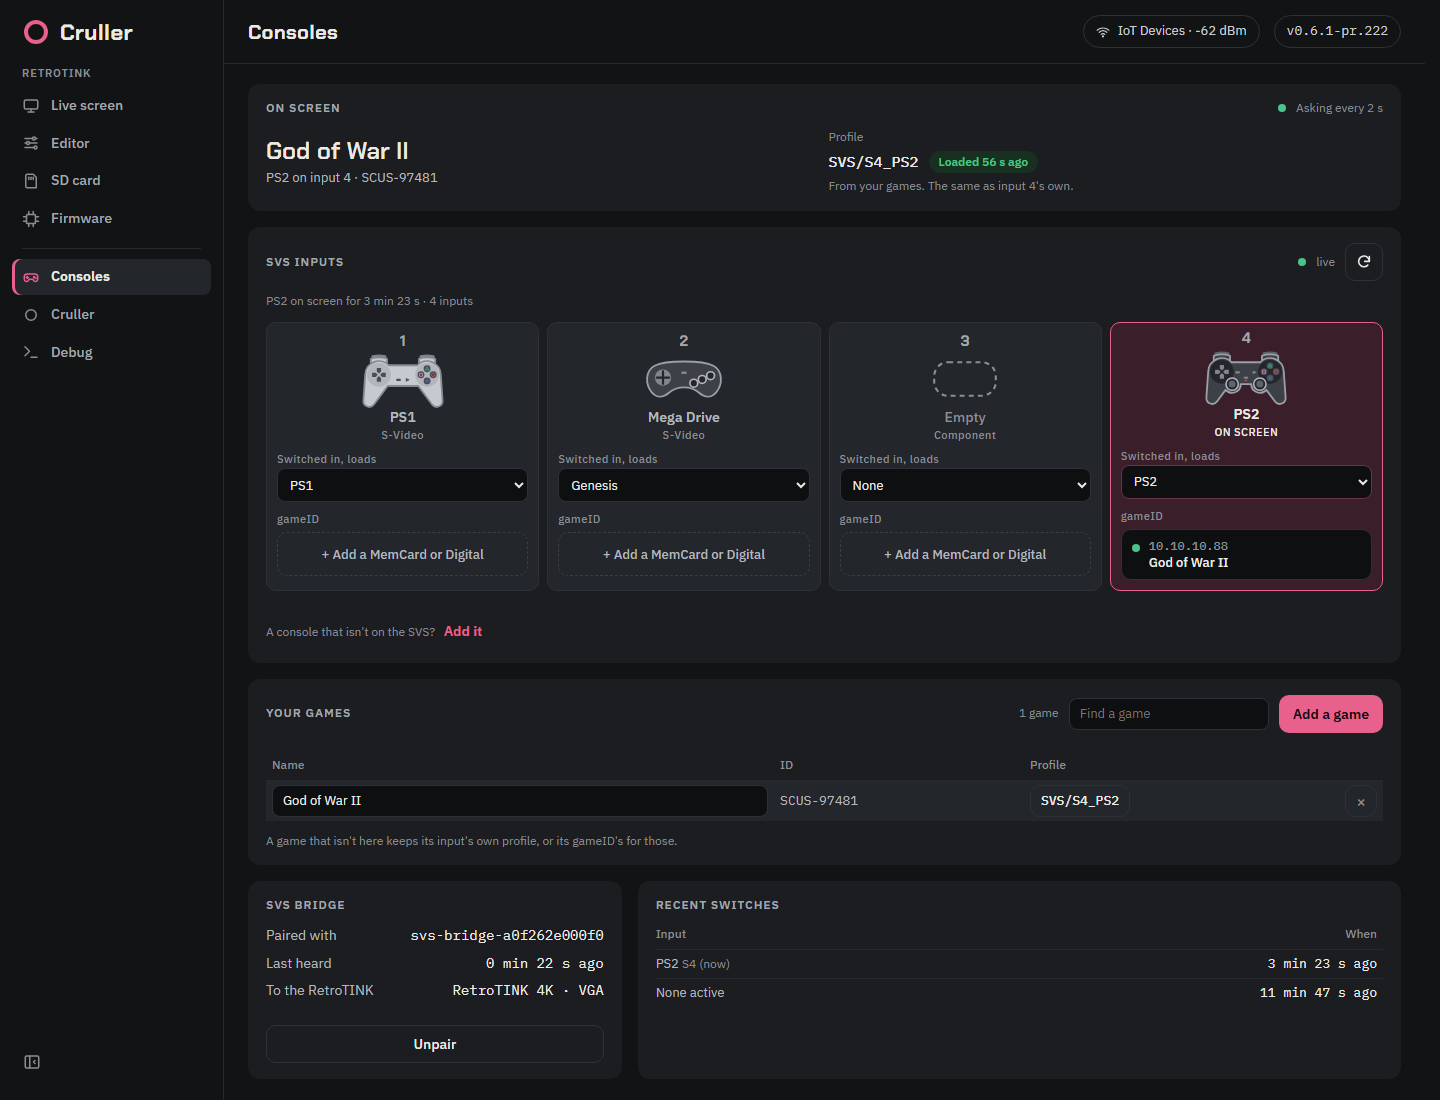
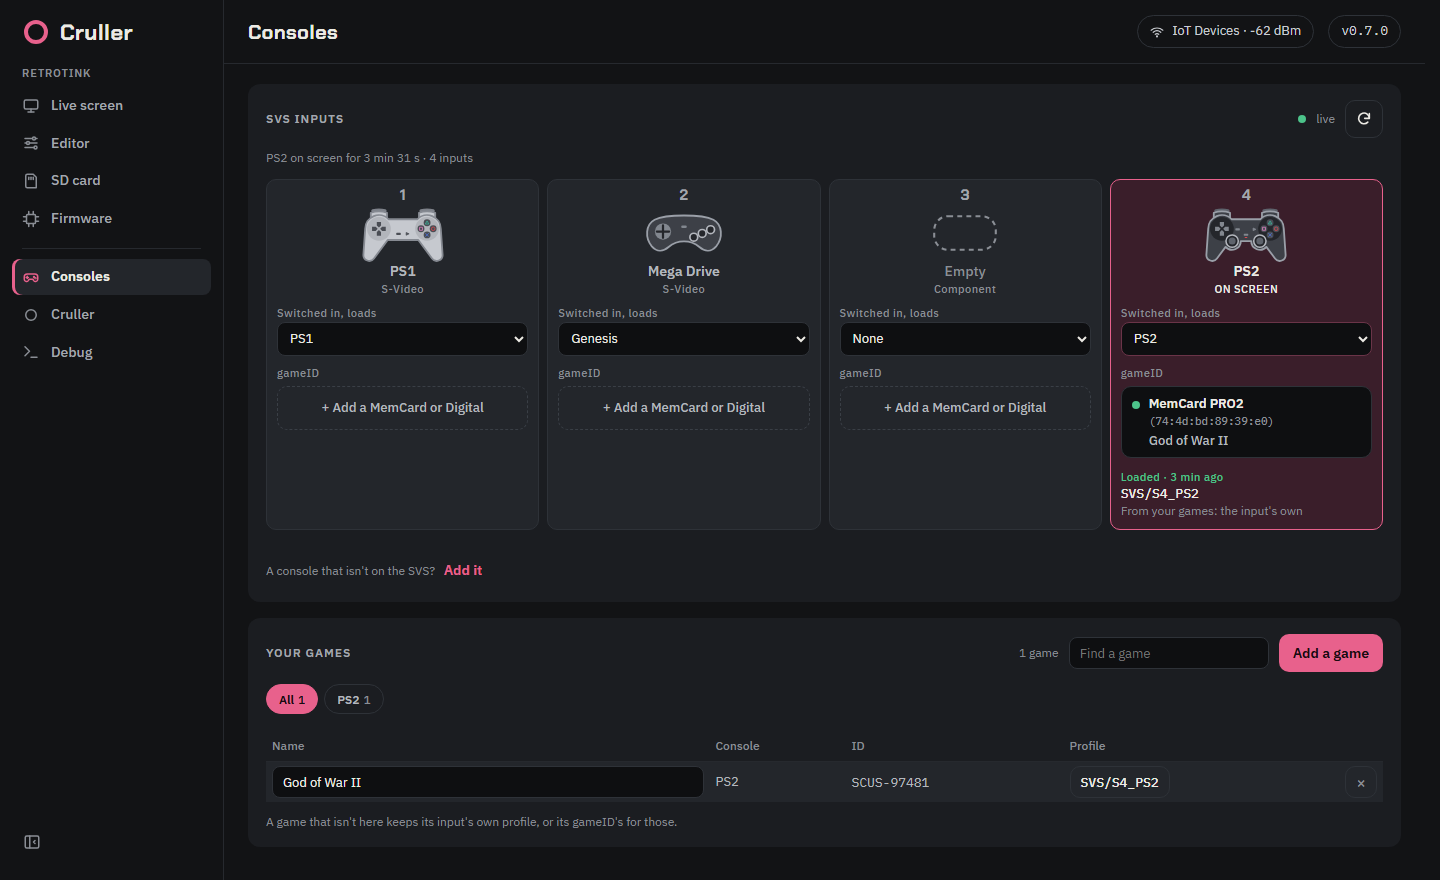
README: up to 0.7.0 (#67)
* README: up to 0.7.0

gameID shipped (the note no longer says it's next): the Consoles view's
devices by name with their MAC, consoles not on the SVS, your games and what
adding one suggests; a gameID note in the technical ones. The profile editor
among the features; the gameID devices in the diagram and in what you need;
/api/v1/gameid; the factory reset wiping gameID's files; the Debug view with
the SVS Bridge, the recent switches and, in pre-releases, the developer tools;
the page embedded gzipped and minified in CI; the tests, the source layout and
the docs as they are now.

* README: the Consoles view's screenshot as it is now

The SVS's inputs with each one's gameID device by name and MAC, the PS2's on
screen with God of War II's profile loaded, your games with their console and
its tag. (The old one had the On screen panel, the device's IP, and the SVS
Bridge and recent switches, now in Debug.)

---------

diff --git a/README.md b/README.md
@@ -20,7 +20,7 @@ web page over Wi-Fi, so the scaler can live behind the TV and still be managed f
 ![Live screen: the RT4K's menu mirrored live, its remote, and the serial console](docs/images/live-screen.png)
 
 > [!NOTE]
-> Cruller is young: every release so far is an alpha. Automatic game profiles (gameID) are next.
+> Cruller is young: every release so far is an alpha.
 
 ## Features
 
@@ -34,9 +34,13 @@ web page over Wi-Fi, so the scaler can live behind the TV and still be managed f
 - **The SD card, over the network**: browse it, download, upload, make folders, rename and delete;
   in `/profile`, load a profile with a click or open it in the profile editor, the loaded one marked;
   tick several to edit them together.
+- **A profile editor**: the RT4K's profiles edited in the browser, laid out as its menus and each
+  setting shown as its OSD shows it, per input mode and sample rate. Several open at once, edited
+  together with Multi Edit, saved where they are on the SD card or downloaded.
 - **Power state**: on, starting or standby, followed without waking the RT4K.
 - **Each game its own profile (gameID)**: a MemCard PRO2 or PRO, a PS1Digital or an N64Digital says
-  which game runs, and the profile you gave it loads.
+  which game runs, and the profile you gave it loads, for the console on the SVS's input on screen
+  or one straight to the RT4K. Your games are listed by console, added from a console in a click.
 - **Your SVS switch**: with an [SVS Bridge](https://github.com/margaale/svs-bridge), the input on
   screen and the console on each input, each input's profile picked from the RT4K's `/profile/SVS`
   (its `S<n>_….rt4`, which it loads with Auto Load SVS), and the gameID on it.
@@ -57,14 +61,15 @@ flowchart LR
     ha["Home Assistant<br/>or scripts"] -- "/api/v1" --> cruller
     pyserial["pyserial"] <-- "RFC 2217" --> cruller
     bridge["SVS Bridge"] -- "active input" --> cruller
+    gameid["MemCard PRO2, PRO,<br/>PS1Digital, N64Digital"] -- "which game runs" --> cruller
     cruller["Cruller<br/>(Pico 2 W)"] <-- "USB, 2 Mbaud" --> rt4k["RetroTINK 4K"]
 ```
 
-Everything on the left reaches Cruller over your Wi-Fi. The RT4K's USB-C port is an FTDI FT232R
-serial adapter: Cruller is the USB host on the Pico's micro-USB port and talks to it at 2 Mbaud
-with RTS/CTS flow control. Over that line go the RT4K's text console and, since RT4K firmware 1.75,
-its binary transfers (the on-screen menu, files), which Cruller implements as described in
-[docs/RTL1.md](docs/RTL1.md).
+Everything on the left reaches Cruller over your Wi-Fi; Cruller asks the gameID devices which game
+runs, every 2 s. The RT4K's USB-C port is an FTDI FT232R serial adapter: Cruller is the USB host on
+the Pico's micro-USB port and talks to it at 2 Mbaud with RTS/CTS flow control. Over that line go the
+RT4K's text console and, since RT4K firmware 1.75, its binary transfers (the on-screen menu, files),
+which Cruller implements as described in [docs/RTL1.md](docs/RTL1.md).
 
 ## What you need
 
@@ -74,8 +79,8 @@ its binary transfers (the on-screen menu, files), which Cruller implements as de
   USB-A to USB-C cable from the adapter to the RT4K.
 - A 2.4 GHz Wi-Fi network (the Pico 2 W has no 5 GHz radio).
 - Optional: an [SVS](https://scalablevideoswitch.com/) with an
-  [SVS Bridge](https://github.com/margaale/svs-bridge), and
-  [Home Assistant](https://www.home-assistant.io/).
+  [SVS Bridge](https://github.com/margaale/svs-bridge); for gameID, a MemCard PRO2 or PRO, a
+  PS1Digital or an N64Digital on your network; and [Home Assistant](https://www.home-assistant.io/).
 
 The releases also carry an ESP32-S3 build (ESP32-S3-DevKitC-1 N16R8), but that port has no RT4K
 link yet.
@@ -176,7 +181,7 @@ of its own. Saving them replaces each changed one where it is, after one confirm
 
 ### Consoles
 
-![Consoles: God of War II on screen with its profile loaded, the SVS's four inputs with their profiles and the PS2's MemCard, your games](docs/images/consoles.png)
+![Consoles: the SVS's four inputs with their profiles, the PS2's on screen, its MemCard PRO2 running God of War II and the profile loaded for it, and your games by console](docs/images/consoles.png)
 
 One view for your consoles and the profile each game loads. The console on screen is lit, and under
 its gameID the profile for its game and how it stands: loaded (and when), loading, waiting for the
@@ -192,16 +197,24 @@ picked from the RT4K's `/profile/SVS` (with "Auto Load SVS" on, the RT4K itself 
 
 **gameID**: a console that reports which game it runs (a MemCard PRO2 or PRO, a PS1Digital, an
 N64Digital) can have each game load its own profile. Under an input, **Add a MemCard or Digital**
-takes its address on your network (a MemCard's IP alone will do). Cruller asks it every 2 s, and
-while that input is on screen its game's profile loads, 3 s after the input's own; a game not in your
-games keeps the input's, or loads another profile you pick for those. A console not on the SVS, or
-any without an SVS, is added the same way. A MemCard PRO2 answers with its own web page on (WebUI v2
-off).
+takes the device's address on your network (a MemCard's IP alone will do) and a name for it, which
+Cruller suggests from its answer ("MemCard PRO2"). Cruller asks it every 2 s, and while that input is
+on screen its game's profile loads, 3 s after the input's own; a game not in your games keeps the
+input's, or loads another profile you pick for those. Its card shows the device by its name, with its
+MAC: Cruller learns it and, when the device's address changes, finds it again on your network by
+itself. A MemCard PRO2 answers with its own web page on (WebUI v2 off).
+
+**Not on the SVS**: a console straight to the RT4K (a PS1Digital or an N64Digital on HDMI, say) is
+added from **A console that isn't on the SVS? Add it**, with its console picked from a list. Its game's
+profile loads while the RT4K shows another input than the SVS's. Without an SVS, every console is added
+there.
 
 **Your games**: each game's ID with its profile, picked from the RT4K's SD card, and the console it's
-for. A game a console runs is added from its card in a click, its console with it; a tag per console
-shows its games alone. A game added starts with what its console suggests: the game its gameID runs
-and that console's profile (its gameID's, else its SVS input's), never another console's.
+for; a tag per console shows its games alone. A game a console runs is added from its card in a click,
+its console with it; **Add a game** starts on the console on screen. Either way the game and the
+profile suggested are the console's own (its gameID's profile for games not in your games, else its
+SVS input's), and picking another console suggests that one's instead. Your consoles come first in
+its list.
 
 The SVS Bridge it's paired with (**Unpair** frees Cruller for another bridge) and the recent switches
 are in the Debug view.
@@ -223,7 +236,8 @@ More in [GAMEID.md](docs/GAMEID.md) and [SVS.md](docs/SVS.md).
   release only sees releases; one running an alpha also sees alphas.
 
 The **Debug** tab has live charts and counters (serial link, command queue, memory, the screen
-mirror, tasks), and the logs.
+mirror, tasks), the logs, the SVS Bridge Cruller is paired with and the recent switches. Pre-releases
+add the developer tools there (raw serial bytes, the USB trace, fault tests); releases leave them out.
 
 ### Home Assistant and scripts
 
@@ -272,8 +286,10 @@ curl -X POST http://cruller.local/api/v1/command -d '{"command": "ver"}'
 
 If a command couldn't be sent (the RT4K isn't connected), `ok` is `false` and the answer is a
 `503`. `GET /api/v1/state` returns the RT4K's power state and Cruller's own, `GET /api/v1/events`
-pushes it over a WebSocket as it changes, and `GET /api/v1/info` says who this Cruller is. The API is versioned: a script written for
-`/api/v1` keeps working as Cruller changes. All of it is in [docs/API.md](docs/API.md).
+pushes it over a WebSocket as it changes, and `GET /api/v1/info` says who this Cruller is.
+`/api/v1/gameid` reads and changes gameID's consoles and your games, and says what each console runs
+and which profile it loaded. The API is versioned: a script written for `/api/v1` keeps working as
+Cruller changes. All of it is in [docs/API.md](docs/API.md).
 
 **Discovery.** Cruller announces itself over mDNS as `_rt4k._tcp` (TXT `id`, `ver`, `api`: the API's
 version, and `name` once named), `_rfc2217._tcp` and `_http._tcp`.
@@ -286,8 +302,9 @@ ports to the internet.
 
 ## Factory reset
 
-In the page, go to **Cruller** → **Factory reset**. Cruller forgets its Wi-Fi network, its name and
-its SVS Bridge, and restarts into the setup network. The installed firmware stays.
+In the page, go to **Cruller** → **Factory reset**. Cruller forgets its Wi-Fi network, its name, its
+SVS Bridge, and gameID's consoles and your games, and restarts into the setup network. The installed
+firmware stays.
 
 If you can't reach the page at all, erase the Pico (hold BOOTSEL while plugging it in, then
 `picotool erase`, or Raspberry Pi's `flash_nuke.uf2` from
@@ -328,7 +345,8 @@ Cruller's patches to that TinyUSB checkout (`src/platform/rp2/patches/tinyusb`),
 edits there when the patches change.
 
 The build goes to `build/rp2`: `cruller.uf2` is the OTA image and `cruller-factory.uf2` installs a
-new board. To install a build on a board on your network:
+new board. The page is embedded gzipped; CI minifies it first (`scripts/minify-web.sh`), a local build
+embeds it as it is. To install a build on a board on your network:
 
 ```bash
 curl --data-binary @build/rp2/cruller.uf2 http://cruller.local/update
@@ -350,28 +368,32 @@ requests keep the tools.
 ### Tests
 
 The pure parts of `src/core` (the RTL1 engine, WebSocket framing, power state, the RFC 2217
-parser, the console's reply windows, the SVS Bridge's reports, the GitHub download's URLs) and the
-page's JavaScript (the firmware updater, the SD card view) are tested on the host, with no Pico:
+parser, the console's reply windows, the SVS Bridge's reports, the GitHub download's URLs, gameID's
+consoles, games and choices, the files they're kept in, JSON) and the page's JavaScript (the firmware
+updater, the SD card view, the profiles, the settings map and the profile editor, the Consoles view)
+are tested on the host, with no Pico:
 
 ```bash
 tests/run.sh
 ```
 
-It needs gcc, and Node.js for the page's tests.
+It needs gcc, and Node.js for the page's tests. CI runs the page's tests on the minified page too.
 
 ### Source layout
 
 ```
 src/core/            The common code (HTTP, WebSocket, console, RTL1, RFC 2217, power, SVS,
-                     settings, firmware downloads), and the interfaces each board implements
+                     gameID, settings and files, firmware downloads), and the interfaces each
+                     board implements
 src/platform/rp2/    The Raspberry Pi Pico 2 W: startup, Wi-Fi and the setup portal, the RT4K's
-                     USB host, flash (A/B slots, settings), watchdog
+                     USB host, flash (A/B slots, settings, littlefs), watchdog
 src/platform/esp32/  The ESP32-S3 port, an ESP-IDF project (no RT4K link yet)
-src/web/             The page, embedded as C arrays at build time (its JavaScript minified in CI)
+src/web/             The page, embedded gzipped as C arrays at build time (minified in CI)
 tests/               Host tests of src/core and the page
 scripts/             build.sh, tls_roots.sh for the Pico's HTTPS roots, minify-web.sh for the
-                     page's JavaScript in the CI's images
-docs/                DESIGN.md, RTL1.md (the RT4K's binary protocol), SVS.md (the SVS Bridge)
+                     page in the CI's images
+docs/                DESIGN.md, API.md (the HTTP API), RTL1.md (the RT4K's binary protocol),
+                     SVS.md (the SVS Bridge), GAMEID.md (gameID)
 ```
 
 The layout matches the [SVS Bridge](https://github.com/margaale/svs-bridge).
@@ -427,6 +449,19 @@ other slot, and the boot ROM starts it on trial: Cruller confirms it once it's u
 gets there, the watchdog sends the board back to the previous slot. That's also why every build
 needs a higher version than the last: the version's minor number carries CI's run number. See
 [docs/DESIGN.md](docs/DESIGN.md#ota-cruller-to-cruller).
+
+</details>
+
+<details>
+<summary><b>gameID: which console, which profile</b></summary>
+
+With an SVS, a console counts while its input is on screen; one not on the SVS, while the RT4K shows
+another input (Cruller reads the RT4K's input with a bare `input`, which doesn't change it). The last
+console whose game changed wins. Its game's profile loads with `prof load`, which the RT4K confirms,
+3 s after the input's own, and never overwrites the SVS's `S1`…`S8`. With the RT4K asleep, it waits
+and loads once it's on. The consoles and your games are files in littlefs (on the Pico, its data
+partition), your games a line each, so up to 1000 never sit in RAM whole. See
+[docs/GAMEID.md](docs/GAMEID.md).
 
 </details>
 
